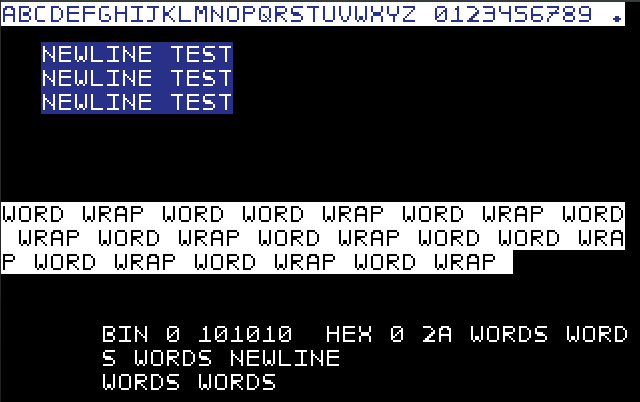
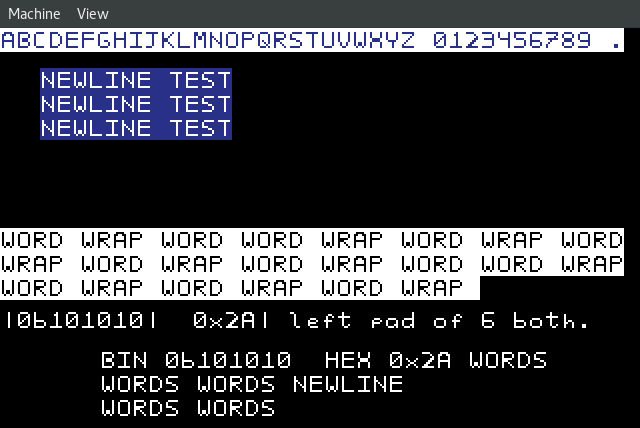
Even more screenshots!

diff --git a/media/screenshots/README.md b/media/screenshots/README.md
@@ -5,3 +5,5 @@
 Screenshots Directory. The screenshots are organized into directories based on
 the programs that they come from. Screenshots have been taken over the course
 of the project so not all of these images are up to date.
+
+Most of these are taken from QEMU, out of convenience.
